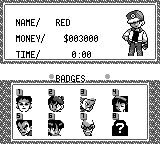
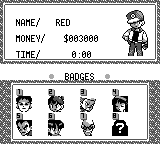
fix(ui): center badge heading and pad Oak name choices

Changed region(s): [[0.3438, 0.5, 0.5938, 0.5833]]

diff --git a/crates/pokered-app/src/render/trainer_card.rs b/crates/pokered-app/src/render/trainer_card.rs
@@ -76,14 +76,19 @@ pub fn draw_trainer_card(
         draw_text(ui_label(label, is_zh), 16, y, fg, fb);
         draw_text(&value, x, y, fg, fb);
     }
-    // Fusion Pixel extends below the original eight-pixel heading row.
-    // Clear its full ink area so the frame texture cannot show through.
+    // Center the project font between the circles. CJK ink extends two
+    // pixels below the ten-pixel Latin row; both must end before y=80.
     let heading = ui_label("BADGES", is_zh);
     let width = pokered_renderer::embedded_font::measure_text(heading);
-    for y in 72..82 {
-        for x in 56..56 + width { fb.set_pixel(x, y, Rgba::WHITE); }
+    let heading_x = (fb.width().saturating_sub(width)) / 2;
+    let heading_height = if is_zh { 12 } else { 10 };
+    let heading_y = 80 - heading_height;
+    for y in heading_y..80 {
+        for x in heading_x..heading_x + width {
+            fb.set_pixel(x, y, Rgba::WHITE);
+        }
     }
-    draw_text(heading, 56, 72, fg, fb);
+    draw_text(heading, heading_x, heading_y, fg, fb);
 
     // Badge rows: number tile beside the 2×2 face (unowned) or badge (owned)
     // graphic (GymLeaderFaceAndBadgeTileGraphics layout: face i at
@@ -135,6 +140,50 @@ fn blit_tile(
             let c = rgba_row[col as usize];
             if c != Rgba::TRANSPARENT && x + col < fb.width() && y + row < fb.height() {
                 fb.set_pixel(x + col, y + row, c);
+            }
+        }
+    }
+}
+
+#[cfg(test)]
+mod tests {
+    use super::*;
+    use dotzuki_engine::render_config::RenderConfig;
+    use pokered_renderer::resource::AssetRoot;
+
+    #[test]
+    fn badge_heading_is_centered_and_leaves_the_top_frame_intact() {
+        let mut resources = Some(ResourceManager::new(AssetRoot::auto_detect().unwrap()));
+        let tiles = resources
+            .as_mut()
+            .unwrap()
+            .load_asset(AssetCategory::TrainerCard, "trainer_info.png")
+            .unwrap()
+            .tileset
+            .clone();
+        let mut border = FrameBuffer::new(RenderConfig::new(160, 144), Rgba::WHITE);
+        super::super::draw_trainer_info_box(&mut border, &tiles, 1, 10, 16, 6);
+        for lang in [Lang::En, Lang::Zh] {
+            let mut fb = FrameBuffer::new(RenderConfig::new(160, 144), Rgba::WHITE);
+            draw_trainer_card("RED", 3000, 0, 0, 0, &mut resources, &mut fb, lang);
+            let ink: Vec<_> = (64..80)
+                .flat_map(|y| (56..104).map(move |x| (x, y)))
+                .filter(|&(x, y)| fb.get_pixel(x, y) == Some(Rgba::BLACK))
+                .collect();
+            let left = ink.iter().map(|p| p.0).min().expect("heading ink");
+            let right = ink.iter().map(|p| p.0).max().unwrap();
+            assert!(
+                (left as i32 + right as i32 - 159).abs() <= 4,
+                "{lang:?} heading must be centered between the circles"
+            );
+            for y in 80..88 {
+                for x in 56..104 {
+                    assert_eq!(
+                        fb.get_pixel(x, y),
+                        border.get_pixel(x, y),
+                        "{lang:?} heading must not erase or overlap the frame at ({x},{y})"
+                    );
+                }
             }
         }
     }

diff --git a/crates/pokered-ui/tests/zh_description_geometry.rs b/crates/pokered-ui/tests/zh_description_geometry.rs
@@ -7,10 +7,11 @@ use pokered_ui::{menus, Painter, Rgba, TilePos, TileRect, Ui};
 #[derive(Default)]
 struct Recorder {
     text: Vec<(TilePos, String)>,
+    boxes: Vec<TileRect>,
 }
 impl Painter for Recorder {
     fn clear(&mut self, _: Rgba) {}
-    fn draw_text_box(&mut self, _: TileRect, _: Rgba) {}
+    fn draw_text_box(&mut self, rect: TileRect, _: Rgba) { self.boxes.push(rect); }
     fn draw_text(&mut self, pos: TilePos, text: &str, _: Rgba) {
         self.text.push((pos, text.into()));
     }
@@ -95,5 +96,20 @@ fn every_chinese_machine_prompt_has_nonoverlapping_readable_rows() {
             assert!(pos.tx * 8 + pokered_data::dialogue_layout::measure_text(text) <= 152);
             assert!(pos.ty * 8 + 12 <= 136);
         }
+    }
+}
+
+#[test]
+fn new_name_leaves_clearance_above_the_bottom_frame() {
+    use pokered_core::oak_speech::{DEFAULT_PLAYER_NAMES, DEFAULT_RIVAL_NAMES};
+    for names in [&DEFAULT_PLAYER_NAMES, &DEFAULT_RIVAL_NAMES] {
+        let mut p = Recorder::default();
+        menus::oak_speech::draw_name_choice(names, 3, "你的名字？",
+            &OAK_SPEECH_NAME_CHOICE_LAYOUT, &mut Ui::new(&mut p));
+        let (pos, _) = p.text.iter().find(|(_, text)| text == "NEW NAME").unwrap();
+        let rect = p.boxes[0];
+        let border_y = (rect.ty + rect.th - 1) * 8;
+        assert!(pos.ty * 8 + pokered_renderer::embedded_font::GLYPH_SIZE + 2 <= border_y,
+            "NEW NAME needs a full font row and padding above the bottom border");
     }
 }

diff --git a/docs/screenshots/tui-shared-runtime/README.md b/docs/screenshots/tui-shared-runtime/README.md
@@ -2,9 +2,11 @@
 
 基线：`deed3e23c1f360c499a1c3fe56f1482e66235e0b`。在 master 上先截旧 TUI，再在本 PR 上截相同屏幕和帧。记录的是终端半块字符转换前的实际 framebuffer。
 
-共 44 组；32 组逐像素一致。Fusion Pixel 字体及终端显示参数保持原方案。
+共 44 组；29 组逐像素一致。Fusion Pixel 字体及终端显示参数保持原方案。
 
 变化来自采用现有共享渲染：战斗菜单和城镇地图现在使用中文；图鉴采用共享边框、分隔线及文本布局。FLY 也采用共享运行时已有的八帧城镇地图离场时序。
+
+根据截图审阅追加两处共享布局修复：徽章标题按字体宽度居中并上移，完整保留徽章框顶边；命名列表框增加一个 tile 的高度，给 NEW NAME 留出底部空白。这两处改变同时适用于图形和终端前端。
 
 ## 复现
 
@@ -21,56 +23,57 @@ PR_SCREENSHOTS=/tmp/tui-frames cargo test -p pokered-tui capture_tui_ -- --ignor
 ## 验证结果
 
 - `cargo test -p pokered-tui`：6 项通过（4 项显式截图测试默认忽略）。
-- `cargo test -p pokered-app --lib`：150 项通过，1 项显式截图测试忽略。
+- `cargo test -p pokered-app --lib`：151 项通过，1 项显式截图测试忽略。
+- `cargo test -p pokered-ui`：103 项通过，含 NEW NAME 留白回归。
 - 关闭 desktop、仅启用资源和原生音频时，迁移的 16 项游戏逻辑测试全部通过。
 - TUI 默认配置及 embedded-scripts/embedded-map-data 配置均构建通过。依赖树没有 winit、wgpu 或 pixels。
 - 真实 PTY：输出 framebuffer 半块字符；Esc 正常退出、返回码为 0，并恢复终端。
 - 场景测试 10/11 通过，包括战斗、捕获、黑屏复活、存档跨进程 CONTINUE、菜单和选项。s10 与两次 m06 流程回归均在 m03 下楼时返回二楼而失败。
-- 独立 master checkout 的新编译二进制复现同一 m03 和 s10 失败：`NavError: warped out of RedsHouse1F -> RedsHouse2F`。该基线问题未计作本 PR 的通过项，本 PR 未修改导航、楼梯或共享运行时生产代码。
+- 独立 master checkout 的新编译二进制复现同一 m03 和 s10 失败：`NavError: warped out of RedsHouse1F -> RedsHouse2F`。该基线问题未计作本 PR 的通过项，本 PR 未修改导航、楼梯或导航生产代码。
 
 | 场景 | 不同像素 | 前 | 后 |
 |---|---:|---|---|
-| tui-bag-en | 0 | ![前](https://raw.githubusercontent.com/liuyanghejerry/open-pokered/refactor/tui-shared-runtime/docs/screenshots/tui-shared-runtime/tui-bag-en-before.png) | ![后](https://raw.githubusercontent.com/liuyanghejerry/open-pokered/refactor/tui-shared-runtime/docs/screenshots/tui-shared-runtime/tui-bag-en-after.png) |
-| tui-bag-zh | 0 | ![前](https://raw.githubusercontent.com/liuyanghejerry/open-pokered/refactor/tui-shared-runtime/docs/screenshots/tui-shared-runtime/tui-bag-zh-before.png) | ![后](https://raw.githubusercontent.com/liuyanghejerry/open-pokered/refactor/tui-shared-runtime/docs/screenshots/tui-shared-runtime/tui-bag-zh-after.png) |
-| tui-battle-en | 310 | ![前](https://raw.githubusercontent.com/liuyanghejerry/open-pokered/refactor/tui-shared-runtime/docs/screenshots/tui-shared-runtime/tui-battle-en-before.png) | ![后](https://raw.githubusercontent.com/liuyanghejerry/open-pokered/refactor/tui-shared-runtime/docs/screenshots/tui-shared-runtime/tui-battle-en-after.png) |
-| tui-battle-zh | 371 | ![前](https://raw.githubusercontent.com/liuyanghejerry/open-pokered/refactor/tui-shared-runtime/docs/screenshots/tui-shared-runtime/tui-battle-zh-before.png) | ![后](https://raw.githubusercontent.com/liuyanghejerry/open-pokered/refactor/tui-shared-runtime/docs/screenshots/tui-shared-runtime/tui-battle-zh-after.png) |
-| tui-copyright-en | 0 | ![前](https://raw.githubusercontent.com/liuyanghejerry/open-pokered/refactor/tui-shared-runtime/docs/screenshots/tui-shared-runtime/tui-copyright-en-before.png) | ![后](https://raw.githubusercontent.com/liuyanghejerry/open-pokered/refactor/tui-shared-runtime/docs/screenshots/tui-shared-runtime/tui-copyright-en-after.png) |
-| tui-copyright-zh | 0 | ![前](https://raw.githubusercontent.com/liuyanghejerry/open-pokered/refactor/tui-shared-runtime/docs/screenshots/tui-shared-runtime/tui-copyright-zh-before.png) | ![后](https://raw.githubusercontent.com/liuyanghejerry/open-pokered/refactor/tui-shared-runtime/docs/screenshots/tui-shared-runtime/tui-copyright-zh-after.png) |
-| tui-dex-caterpie-page-0 | 1936 | ![前](https://raw.githubusercontent.com/liuyanghejerry/open-pokered/refactor/tui-shared-runtime/docs/screenshots/tui-shared-runtime/tui-dex-caterpie-page-0-before.png) | ![后](https://raw.githubusercontent.com/liuyanghejerry/open-pokered/refactor/tui-shared-runtime/docs/screenshots/tui-shared-runtime/tui-dex-caterpie-page-0-after.png) |
-| tui-fly-departure-0-en | 15283 | ![前](https://raw.githubusercontent.com/liuyanghejerry/open-pokered/refactor/tui-shared-runtime/docs/screenshots/tui-shared-runtime/tui-fly-departure-0-en-before.png) | ![后](https://raw.githubusercontent.com/liuyanghejerry/open-pokered/refactor/tui-shared-runtime/docs/screenshots/tui-shared-runtime/tui-fly-departure-0-en-after.png) |
-| tui-fly-departure-0-zh | 15245 | ![前](https://raw.githubusercontent.com/liuyanghejerry/open-pokered/refactor/tui-shared-runtime/docs/screenshots/tui-shared-runtime/tui-fly-departure-0-zh-before.png) | ![后](https://raw.githubusercontent.com/liuyanghejerry/open-pokered/refactor/tui-shared-runtime/docs/screenshots/tui-shared-runtime/tui-fly-departure-0-zh-after.png) |
-| tui-fly-departure-7-en | 15283 | ![前](https://raw.githubusercontent.com/liuyanghejerry/open-pokered/refactor/tui-shared-runtime/docs/screenshots/tui-shared-runtime/tui-fly-departure-7-en-before.png) | ![后](https://raw.githubusercontent.com/liuyanghejerry/open-pokered/refactor/tui-shared-runtime/docs/screenshots/tui-shared-runtime/tui-fly-departure-7-en-after.png) |
-| tui-fly-departure-7-zh | 15245 | ![前](https://raw.githubusercontent.com/liuyanghejerry/open-pokered/refactor/tui-shared-runtime/docs/screenshots/tui-shared-runtime/tui-fly-departure-7-zh-before.png) | ![后](https://raw.githubusercontent.com/liuyanghejerry/open-pokered/refactor/tui-shared-runtime/docs/screenshots/tui-shared-runtime/tui-fly-departure-7-zh-after.png) |
-| tui-fly-departure-8-en | 6502 | ![前](https://raw.githubusercontent.com/liuyanghejerry/open-pokered/refactor/tui-shared-runtime/docs/screenshots/tui-shared-runtime/tui-fly-departure-8-en-before.png) | ![后](https://raw.githubusercontent.com/liuyanghejerry/open-pokered/refactor/tui-shared-runtime/docs/screenshots/tui-shared-runtime/tui-fly-departure-8-en-after.png) |
-| tui-fly-departure-8-zh | 6502 | ![前](https://raw.githubusercontent.com/liuyanghejerry/open-pokered/refactor/tui-shared-runtime/docs/screenshots/tui-shared-runtime/tui-fly-departure-8-zh-before.png) | ![后](https://raw.githubusercontent.com/liuyanghejerry/open-pokered/refactor/tui-shared-runtime/docs/screenshots/tui-shared-runtime/tui-fly-departure-8-zh-after.png) |
-| tui-hof-rating-50 | 0 | ![前](https://raw.githubusercontent.com/liuyanghejerry/open-pokered/refactor/tui-shared-runtime/docs/screenshots/tui-shared-runtime/tui-hof-rating-50-before.png) | ![后](https://raw.githubusercontent.com/liuyanghejerry/open-pokered/refactor/tui-shared-runtime/docs/screenshots/tui-shared-runtime/tui-hof-rating-50-after.png) |
-| tui-hof-stats-max | 0 | ![前](https://raw.githubusercontent.com/liuyanghejerry/open-pokered/refactor/tui-shared-runtime/docs/screenshots/tui-shared-runtime/tui-hof-stats-max-before.png) | ![后](https://raw.githubusercontent.com/liuyanghejerry/open-pokered/refactor/tui-shared-runtime/docs/screenshots/tui-shared-runtime/tui-hof-stats-max-after.png) |
-| tui-hof-stats-zero | 0 | ![前](https://raw.githubusercontent.com/liuyanghejerry/open-pokered/refactor/tui-shared-runtime/docs/screenshots/tui-shared-runtime/tui-hof-stats-zero-before.png) | ![后](https://raw.githubusercontent.com/liuyanghejerry/open-pokered/refactor/tui-shared-runtime/docs/screenshots/tui-shared-runtime/tui-hof-stats-zero-after.png) |
-| tui-intro-en | 0 | ![前](https://raw.githubusercontent.com/liuyanghejerry/open-pokered/refactor/tui-shared-runtime/docs/screenshots/tui-shared-runtime/tui-intro-en-before.png) | ![后](https://raw.githubusercontent.com/liuyanghejerry/open-pokered/refactor/tui-shared-runtime/docs/screenshots/tui-shared-runtime/tui-intro-en-after.png) |
-| tui-intro-zh | 0 | ![前](https://raw.githubusercontent.com/liuyanghejerry/open-pokered/refactor/tui-shared-runtime/docs/screenshots/tui-shared-runtime/tui-intro-zh-before.png) | ![后](https://raw.githubusercontent.com/liuyanghejerry/open-pokered/refactor/tui-shared-runtime/docs/screenshots/tui-shared-runtime/tui-intro-zh-after.png) |
-| tui-language-en | 0 | ![前](https://raw.githubusercontent.com/liuyanghejerry/open-pokered/refactor/tui-shared-runtime/docs/screenshots/tui-shared-runtime/tui-language-en-before.png) | ![后](https://raw.githubusercontent.com/liuyanghejerry/open-pokered/refactor/tui-shared-runtime/docs/screenshots/tui-shared-runtime/tui-language-en-after.png) |
-| tui-language-zh | 0 | ![前](https://raw.githubusercontent.com/liuyanghejerry/open-pokered/refactor/tui-shared-runtime/docs/screenshots/tui-shared-runtime/tui-language-zh-before.png) | ![后](https://raw.githubusercontent.com/liuyanghejerry/open-pokered/refactor/tui-shared-runtime/docs/screenshots/tui-shared-runtime/tui-language-zh-after.png) |
-| tui-main-menu-en | 0 | ![前](https://raw.githubusercontent.com/liuyanghejerry/open-pokered/refactor/tui-shared-runtime/docs/screenshots/tui-shared-runtime/tui-main-menu-en-before.png) | ![后](https://raw.githubusercontent.com/liuyanghejerry/open-pokered/refactor/tui-shared-runtime/docs/screenshots/tui-shared-runtime/tui-main-menu-en-after.png) |
-| tui-main-menu-zh | 0 | ![前](https://raw.githubusercontent.com/liuyanghejerry/open-pokered/refactor/tui-shared-runtime/docs/screenshots/tui-shared-runtime/tui-main-menu-zh-before.png) | ![后](https://raw.githubusercontent.com/liuyanghejerry/open-pokered/refactor/tui-shared-runtime/docs/screenshots/tui-shared-runtime/tui-main-menu-zh-after.png) |
-| tui-oak-input-frame-43 | 0 | ![前](https://raw.githubusercontent.com/liuyanghejerry/open-pokered/refactor/tui-shared-runtime/docs/screenshots/tui-shared-runtime/tui-oak-input-frame-43-before.png) | ![后](https://raw.githubusercontent.com/liuyanghejerry/open-pokered/refactor/tui-shared-runtime/docs/screenshots/tui-shared-runtime/tui-oak-input-frame-43-after.png) |
-| tui-oak-name-choice | 0 | ![前](https://raw.githubusercontent.com/liuyanghejerry/open-pokered/refactor/tui-shared-runtime/docs/screenshots/tui-shared-runtime/tui-oak-name-choice-before.png) | ![后](https://raw.githubusercontent.com/liuyanghejerry/open-pokered/refactor/tui-shared-runtime/docs/screenshots/tui-shared-runtime/tui-oak-name-choice-after.png) |
-| tui-options-en | 0 | ![前](https://raw.githubusercontent.com/liuyanghejerry/open-pokered/refactor/tui-shared-runtime/docs/screenshots/tui-shared-runtime/tui-options-en-before.png) | ![后](https://raw.githubusercontent.com/liuyanghejerry/open-pokered/refactor/tui-shared-runtime/docs/screenshots/tui-shared-runtime/tui-options-en-after.png) |
-| tui-options-zh | 0 | ![前](https://raw.githubusercontent.com/liuyanghejerry/open-pokered/refactor/tui-shared-runtime/docs/screenshots/tui-shared-runtime/tui-options-zh-before.png) | ![后](https://raw.githubusercontent.com/liuyanghejerry/open-pokered/refactor/tui-shared-runtime/docs/screenshots/tui-shared-runtime/tui-options-zh-after.png) |
-| tui-overworld-en | 0 | ![前](https://raw.githubusercontent.com/liuyanghejerry/open-pokered/refactor/tui-shared-runtime/docs/screenshots/tui-shared-runtime/tui-overworld-en-before.png) | ![后](https://raw.githubusercontent.com/liuyanghejerry/open-pokered/refactor/tui-shared-runtime/docs/screenshots/tui-shared-runtime/tui-overworld-en-after.png) |
-| tui-overworld-zh | 0 | ![前](https://raw.githubusercontent.com/liuyanghejerry/open-pokered/refactor/tui-shared-runtime/docs/screenshots/tui-shared-runtime/tui-overworld-zh-before.png) | ![后](https://raw.githubusercontent.com/liuyanghejerry/open-pokered/refactor/tui-shared-runtime/docs/screenshots/tui-shared-runtime/tui-overworld-zh-after.png) |
-| tui-party-en | 0 | ![前](https://raw.githubusercontent.com/liuyanghejerry/open-pokered/refactor/tui-shared-runtime/docs/screenshots/tui-shared-runtime/tui-party-en-before.png) | ![后](https://raw.githubusercontent.com/liuyanghejerry/open-pokered/refactor/tui-shared-runtime/docs/screenshots/tui-shared-runtime/tui-party-en-after.png) |
-| tui-party-zh | 0 | ![前](https://raw.githubusercontent.com/liuyanghejerry/open-pokered/refactor/tui-shared-runtime/docs/screenshots/tui-shared-runtime/tui-party-zh-before.png) | ![后](https://raw.githubusercontent.com/liuyanghejerry/open-pokered/refactor/tui-shared-runtime/docs/screenshots/tui-shared-runtime/tui-party-zh-after.png) |
-| tui-pc-oak-rating-50 | 0 | ![前](https://raw.githubusercontent.com/liuyanghejerry/open-pokered/refactor/tui-shared-runtime/docs/screenshots/tui-shared-runtime/tui-pc-oak-rating-50-before.png) | ![后](https://raw.githubusercontent.com/liuyanghejerry/open-pokered/refactor/tui-shared-runtime/docs/screenshots/tui-shared-runtime/tui-pc-oak-rating-50-after.png) |
-| tui-save-en | 0 | ![前](https://raw.githubusercontent.com/liuyanghejerry/open-pokered/refactor/tui-shared-runtime/docs/screenshots/tui-shared-runtime/tui-save-en-before.png) | ![后](https://raw.githubusercontent.com/liuyanghejerry/open-pokered/refactor/tui-shared-runtime/docs/screenshots/tui-shared-runtime/tui-save-en-after.png) |
-| tui-save-zh | 0 | ![前](https://raw.githubusercontent.com/liuyanghejerry/open-pokered/refactor/tui-shared-runtime/docs/screenshots/tui-shared-runtime/tui-save-zh-before.png) | ![后](https://raw.githubusercontent.com/liuyanghejerry/open-pokered/refactor/tui-shared-runtime/docs/screenshots/tui-shared-runtime/tui-save-zh-after.png) |
-| tui-splash-en | 0 | ![前](https://raw.githubusercontent.com/liuyanghejerry/open-pokered/refactor/tui-shared-runtime/docs/screenshots/tui-shared-runtime/tui-splash-en-before.png) | ![后](https://raw.githubusercontent.com/liuyanghejerry/open-pokered/refactor/tui-shared-runtime/docs/screenshots/tui-shared-runtime/tui-splash-en-after.png) |
-| tui-splash-zh | 0 | ![前](https://raw.githubusercontent.com/liuyanghejerry/open-pokered/refactor/tui-shared-runtime/docs/screenshots/tui-shared-runtime/tui-splash-zh-before.png) | ![后](https://raw.githubusercontent.com/liuyanghejerry/open-pokered/refactor/tui-shared-runtime/docs/screenshots/tui-shared-runtime/tui-splash-zh-after.png) |
-| tui-start-menu-en | 0 | ![前](https://raw.githubusercontent.com/liuyanghejerry/open-pokered/refactor/tui-shared-runtime/docs/screenshots/tui-shared-runtime/tui-start-menu-en-before.png) | ![后](https://raw.githubusercontent.com/liuyanghejerry/open-pokered/refactor/tui-shared-runtime/docs/screenshots/tui-shared-runtime/tui-start-menu-en-after.png) |
-| tui-start-menu-zh | 0 | ![前](https://raw.githubusercontent.com/liuyanghejerry/open-pokered/refactor/tui-shared-runtime/docs/screenshots/tui-shared-runtime/tui-start-menu-zh-before.png) | ![后](https://raw.githubusercontent.com/liuyanghejerry/open-pokered/refactor/tui-shared-runtime/docs/screenshots/tui-shared-runtime/tui-start-menu-zh-after.png) |
-| tui-starter-dex-overlay | 1952 | ![前](https://raw.githubusercontent.com/liuyanghejerry/open-pokered/refactor/tui-shared-runtime/docs/screenshots/tui-shared-runtime/tui-starter-dex-overlay-before.png) | ![后](https://raw.githubusercontent.com/liuyanghejerry/open-pokered/refactor/tui-shared-runtime/docs/screenshots/tui-shared-runtime/tui-starter-dex-overlay-after.png) |
-| tui-title-en | 0 | ![前](https://raw.githubusercontent.com/liuyanghejerry/open-pokered/refactor/tui-shared-runtime/docs/screenshots/tui-shared-runtime/tui-title-en-before.png) | ![后](https://raw.githubusercontent.com/liuyanghejerry/open-pokered/refactor/tui-shared-runtime/docs/screenshots/tui-shared-runtime/tui-title-en-after.png) |
-| tui-title-zh | 0 | ![前](https://raw.githubusercontent.com/liuyanghejerry/open-pokered/refactor/tui-shared-runtime/docs/screenshots/tui-shared-runtime/tui-title-zh-before.png) | ![后](https://raw.githubusercontent.com/liuyanghejerry/open-pokered/refactor/tui-shared-runtime/docs/screenshots/tui-shared-runtime/tui-title-zh-after.png) |
-| tui-town-map-en | 192 | ![前](https://raw.githubusercontent.com/liuyanghejerry/open-pokered/refactor/tui-shared-runtime/docs/screenshots/tui-shared-runtime/tui-town-map-en-before.png) | ![后](https://raw.githubusercontent.com/liuyanghejerry/open-pokered/refactor/tui-shared-runtime/docs/screenshots/tui-shared-runtime/tui-town-map-en-after.png) |
-| tui-town-map-zh | 374 | ![前](https://raw.githubusercontent.com/liuyanghejerry/open-pokered/refactor/tui-shared-runtime/docs/screenshots/tui-shared-runtime/tui-town-map-zh-before.png) | ![后](https://raw.githubusercontent.com/liuyanghejerry/open-pokered/refactor/tui-shared-runtime/docs/screenshots/tui-shared-runtime/tui-town-map-zh-after.png) |
-| tui-trainer-card-en | 0 | ![前](https://raw.githubusercontent.com/liuyanghejerry/open-pokered/refactor/tui-shared-runtime/docs/screenshots/tui-shared-runtime/tui-trainer-card-en-before.png) | ![后](https://raw.githubusercontent.com/liuyanghejerry/open-pokered/refactor/tui-shared-runtime/docs/screenshots/tui-shared-runtime/tui-trainer-card-en-after.png) |
-| tui-trainer-card-zh | 0 | ![前](https://raw.githubusercontent.com/liuyanghejerry/open-pokered/refactor/tui-shared-runtime/docs/screenshots/tui-shared-runtime/tui-trainer-card-zh-before.png) | ![后](https://raw.githubusercontent.com/liuyanghejerry/open-pokered/refactor/tui-shared-runtime/docs/screenshots/tui-shared-runtime/tui-trainer-card-zh-after.png) |
+| tui-bag-en | 0 | ![前](https://raw.githubusercontent.com/liuyanghejerry/open-pokered/refactor/tui-shared-runtime/docs/screenshots/tui-shared-runtime/tui-bag-en-before.png?layout-review=2) | ![后](https://raw.githubusercontent.com/liuyanghejerry/open-pokered/refactor/tui-shared-runtime/docs/screenshots/tui-shared-runtime/tui-bag-en-after.png?layout-review=2) |
+| tui-bag-zh | 0 | ![前](https://raw.githubusercontent.com/liuyanghejerry/open-pokered/refactor/tui-shared-runtime/docs/screenshots/tui-shared-runtime/tui-bag-zh-before.png?layout-review=2) | ![后](https://raw.githubusercontent.com/liuyanghejerry/open-pokered/refactor/tui-shared-runtime/docs/screenshots/tui-shared-runtime/tui-bag-zh-after.png?layout-review=2) |
+| tui-battle-en | 310 | ![前](https://raw.githubusercontent.com/liuyanghejerry/open-pokered/refactor/tui-shared-runtime/docs/screenshots/tui-shared-runtime/tui-battle-en-before.png?layout-review=2) | ![后](https://raw.githubusercontent.com/liuyanghejerry/open-pokered/refactor/tui-shared-runtime/docs/screenshots/tui-shared-runtime/tui-battle-en-after.png?layout-review=2) |
+| tui-battle-zh | 371 | ![前](https://raw.githubusercontent.com/liuyanghejerry/open-pokered/refactor/tui-shared-runtime/docs/screenshots/tui-shared-runtime/tui-battle-zh-before.png?layout-review=2) | ![后](https://raw.githubusercontent.com/liuyanghejerry/open-pokered/refactor/tui-shared-runtime/docs/screenshots/tui-shared-runtime/tui-battle-zh-after.png?layout-review=2) |
+| tui-copyright-en | 0 | ![前](https://raw.githubusercontent.com/liuyanghejerry/open-pokered/refactor/tui-shared-runtime/docs/screenshots/tui-shared-runtime/tui-copyright-en-before.png?layout-review=2) | ![后](https://raw.githubusercontent.com/liuyanghejerry/open-pokered/refactor/tui-shared-runtime/docs/screenshots/tui-shared-runtime/tui-copyright-en-after.png?layout-review=2) |
+| tui-copyright-zh | 0 | ![前](https://raw.githubusercontent.com/liuyanghejerry/open-pokered/refactor/tui-shared-runtime/docs/screenshots/tui-shared-runtime/tui-copyright-zh-before.png?layout-review=2) | ![后](https://raw.githubusercontent.com/liuyanghejerry/open-pokered/refactor/tui-shared-runtime/docs/screenshots/tui-shared-runtime/tui-copyright-zh-after.png?layout-review=2) |
+| tui-dex-caterpie-page-0 | 1936 | ![前](https://raw.githubusercontent.com/liuyanghejerry/open-pokered/refactor/tui-shared-runtime/docs/screenshots/tui-shared-runtime/tui-dex-caterpie-page-0-before.png?layout-review=2) | ![后](https://raw.githubusercontent.com/liuyanghejerry/open-pokered/refactor/tui-shared-runtime/docs/screenshots/tui-shared-runtime/tui-dex-caterpie-page-0-after.png?layout-review=2) |
+| tui-fly-departure-0-en | 15283 | ![前](https://raw.githubusercontent.com/liuyanghejerry/open-pokered/refactor/tui-shared-runtime/docs/screenshots/tui-shared-runtime/tui-fly-departure-0-en-before.png?layout-review=2) | ![后](https://raw.githubusercontent.com/liuyanghejerry/open-pokered/refactor/tui-shared-runtime/docs/screenshots/tui-shared-runtime/tui-fly-departure-0-en-after.png?layout-review=2) |
+| tui-fly-departure-0-zh | 15245 | ![前](https://raw.githubusercontent.com/liuyanghejerry/open-pokered/refactor/tui-shared-runtime/docs/screenshots/tui-shared-runtime/tui-fly-departure-0-zh-before.png?layout-review=2) | ![后](https://raw.githubusercontent.com/liuyanghejerry/open-pokered/refactor/tui-shared-runtime/docs/screenshots/tui-shared-runtime/tui-fly-departure-0-zh-after.png?layout-review=2) |
+| tui-fly-departure-7-en | 15283 | ![前](https://raw.githubusercontent.com/liuyanghejerry/open-pokered/refactor/tui-shared-runtime/docs/screenshots/tui-shared-runtime/tui-fly-departure-7-en-before.png?layout-review=2) | ![后](https://raw.githubusercontent.com/liuyanghejerry/open-pokered/refactor/tui-shared-runtime/docs/screenshots/tui-shared-runtime/tui-fly-departure-7-en-after.png?layout-review=2) |
+| tui-fly-departure-7-zh | 15245 | ![前](https://raw.githubusercontent.com/liuyanghejerry/open-pokered/refactor/tui-shared-runtime/docs/screenshots/tui-shared-runtime/tui-fly-departure-7-zh-before.png?layout-review=2) | ![后](https://raw.githubusercontent.com/liuyanghejerry/open-pokered/refactor/tui-shared-runtime/docs/screenshots/tui-shared-runtime/tui-fly-departure-7-zh-after.png?layout-review=2) |
+| tui-fly-departure-8-en | 6502 | ![前](https://raw.githubusercontent.com/liuyanghejerry/open-pokered/refactor/tui-shared-runtime/docs/screenshots/tui-shared-runtime/tui-fly-departure-8-en-before.png?layout-review=2) | ![后](https://raw.githubusercontent.com/liuyanghejerry/open-pokered/refactor/tui-shared-runtime/docs/screenshots/tui-shared-runtime/tui-fly-departure-8-en-after.png?layout-review=2) |
+| tui-fly-departure-8-zh | 6502 | ![前](https://raw.githubusercontent.com/liuyanghejerry/open-pokered/refactor/tui-shared-runtime/docs/screenshots/tui-shared-runtime/tui-fly-departure-8-zh-before.png?layout-review=2) | ![后](https://raw.githubusercontent.com/liuyanghejerry/open-pokered/refactor/tui-shared-runtime/docs/screenshots/tui-shared-runtime/tui-fly-departure-8-zh-after.png?layout-review=2) |
+| tui-hof-rating-50 | 0 | ![前](https://raw.githubusercontent.com/liuyanghejerry/open-pokered/refactor/tui-shared-runtime/docs/screenshots/tui-shared-runtime/tui-hof-rating-50-before.png?layout-review=2) | ![后](https://raw.githubusercontent.com/liuyanghejerry/open-pokered/refactor/tui-shared-runtime/docs/screenshots/tui-shared-runtime/tui-hof-rating-50-after.png?layout-review=2) |
+| tui-hof-stats-max | 0 | ![前](https://raw.githubusercontent.com/liuyanghejerry/open-pokered/refactor/tui-shared-runtime/docs/screenshots/tui-shared-runtime/tui-hof-stats-max-before.png?layout-review=2) | ![后](https://raw.githubusercontent.com/liuyanghejerry/open-pokered/refactor/tui-shared-runtime/docs/screenshots/tui-shared-runtime/tui-hof-stats-max-after.png?layout-review=2) |
+| tui-hof-stats-zero | 0 | ![前](https://raw.githubusercontent.com/liuyanghejerry/open-pokered/refactor/tui-shared-runtime/docs/screenshots/tui-shared-runtime/tui-hof-stats-zero-before.png?layout-review=2) | ![后](https://raw.githubusercontent.com/liuyanghejerry/open-pokered/refactor/tui-shared-runtime/docs/screenshots/tui-shared-runtime/tui-hof-stats-zero-after.png?layout-review=2) |
+| tui-intro-en | 0 | ![前](https://raw.githubusercontent.com/liuyanghejerry/open-pokered/refactor/tui-shared-runtime/docs/screenshots/tui-shared-runtime/tui-intro-en-before.png?layout-review=2) | ![后](https://raw.githubusercontent.com/liuyanghejerry/open-pokered/refactor/tui-shared-runtime/docs/screenshots/tui-shared-runtime/tui-intro-en-after.png?layout-review=2) |
+| tui-intro-zh | 0 | ![前](https://raw.githubusercontent.com/liuyanghejerry/open-pokered/refactor/tui-shared-runtime/docs/screenshots/tui-shared-runtime/tui-intro-zh-before.png?layout-review=2) | ![后](https://raw.githubusercontent.com/liuyanghejerry/open-pokered/refactor/tui-shared-runtime/docs/screenshots/tui-shared-runtime/tui-intro-zh-after.png?layout-review=2) |
+| tui-language-en | 0 | ![前](https://raw.githubusercontent.com/liuyanghejerry/open-pokered/refactor/tui-shared-runtime/docs/screenshots/tui-shared-runtime/tui-language-en-before.png?layout-review=2) | ![后](https://raw.githubusercontent.com/liuyanghejerry/open-pokered/refactor/tui-shared-runtime/docs/screenshots/tui-shared-runtime/tui-language-en-after.png?layout-review=2) |
+| tui-language-zh | 0 | ![前](https://raw.githubusercontent.com/liuyanghejerry/open-pokered/refactor/tui-shared-runtime/docs/screenshots/tui-shared-runtime/tui-language-zh-before.png?layout-review=2) | ![后](https://raw.githubusercontent.com/liuyanghejerry/open-pokered/refactor/tui-shared-runtime/docs/screenshots/tui-shared-runtime/tui-language-zh-after.png?layout-review=2) |
+| tui-main-menu-en | 0 | ![前](https://raw.githubusercontent.com/liuyanghejerry/open-pokered/refactor/tui-shared-runtime/docs/screenshots/tui-shared-runtime/tui-main-menu-en-before.png?layout-review=2) | ![后](https://raw.githubusercontent.com/liuyanghejerry/open-pokered/refactor/tui-shared-runtime/docs/screenshots/tui-shared-runtime/tui-main-menu-en-after.png?layout-review=2) |
+| tui-main-menu-zh | 0 | ![前](https://raw.githubusercontent.com/liuyanghejerry/open-pokered/refactor/tui-shared-runtime/docs/screenshots/tui-shared-runtime/tui-main-menu-zh-before.png?layout-review=2) | ![后](https://raw.githubusercontent.com/liuyanghejerry/open-pokered/refactor/tui-shared-runtime/docs/screenshots/tui-shared-runtime/tui-main-menu-zh-after.png?layout-review=2) |
+| tui-oak-input-frame-43 | 0 | ![前](https://raw.githubusercontent.com/liuyanghejerry/open-pokered/refactor/tui-shared-runtime/docs/screenshots/tui-shared-runtime/tui-oak-input-frame-43-before.png?layout-review=2) | ![后](https://raw.githubusercontent.com/liuyanghejerry/open-pokered/refactor/tui-shared-runtime/docs/screenshots/tui-shared-runtime/tui-oak-input-frame-43-after.png?layout-review=2) |
+| tui-oak-name-choice | 520 | ![前](https://raw.githubusercontent.com/liuyanghejerry/open-pokered/refactor/tui-shared-runtime/docs/screenshots/tui-shared-runtime/tui-oak-name-choice-before.png?layout-review=2) | ![后](https://raw.githubusercontent.com/liuyanghejerry/open-pokered/refactor/tui-shared-runtime/docs/screenshots/tui-shared-runtime/tui-oak-name-choice-after.png?layout-review=2) |
+| tui-options-en | 0 | ![前](https://raw.githubusercontent.com/liuyanghejerry/open-pokered/refactor/tui-shared-runtime/docs/screenshots/tui-shared-runtime/tui-options-en-before.png?layout-review=2) | ![后](https://raw.githubusercontent.com/liuyanghejerry/open-pokered/refactor/tui-shared-runtime/docs/screenshots/tui-shared-runtime/tui-options-en-after.png?layout-review=2) |
+| tui-options-zh | 0 | ![前](https://raw.githubusercontent.com/liuyanghejerry/open-pokered/refactor/tui-shared-runtime/docs/screenshots/tui-shared-runtime/tui-options-zh-before.png?layout-review=2) | ![后](https://raw.githubusercontent.com/liuyanghejerry/open-pokered/refactor/tui-shared-runtime/docs/screenshots/tui-shared-runtime/tui-options-zh-after.png?layout-review=2) |
+| tui-overworld-en | 0 | ![前](https://raw.githubusercontent.com/liuyanghejerry/open-pokered/refactor/tui-shared-runtime/docs/screenshots/tui-shared-runtime/tui-overworld-en-before.png?layout-review=2) | ![后](https://raw.githubusercontent.com/liuyanghejerry/open-pokered/refactor/tui-shared-runtime/docs/screenshots/tui-shared-runtime/tui-overworld-en-after.png?layout-review=2) |
+| tui-overworld-zh | 0 | ![前](https://raw.githubusercontent.com/liuyanghejerry/open-pokered/refactor/tui-shared-runtime/docs/screenshots/tui-shared-runtime/tui-overworld-zh-before.png?layout-review=2) | ![后](https://raw.githubusercontent.com/liuyanghejerry/open-pokered/refactor/tui-shared-runtime/docs/screenshots/tui-shared-runtime/tui-overworld-zh-after.png?layout-review=2) |
+| tui-party-en | 0 | ![前](https://raw.githubusercontent.com/liuyanghejerry/open-pokered/refactor/tui-shared-runtime/docs/screenshots/tui-shared-runtime/tui-party-en-before.png?layout-review=2) | ![后](https://raw.githubusercontent.com/liuyanghejerry/open-pokered/refactor/tui-shared-runtime/docs/screenshots/tui-shared-runtime/tui-party-en-after.png?layout-review=2) |
+| tui-party-zh | 0 | ![前](https://raw.githubusercontent.com/liuyanghejerry/open-pokered/refactor/tui-shared-runtime/docs/screenshots/tui-shared-runtime/tui-party-zh-before.png?layout-review=2) | ![后](https://raw.githubusercontent.com/liuyanghejerry/open-pokered/refactor/tui-shared-runtime/docs/screenshots/tui-shared-runtime/tui-party-zh-after.png?layout-review=2) |
+| tui-pc-oak-rating-50 | 0 | ![前](https://raw.githubusercontent.com/liuyanghejerry/open-pokered/refactor/tui-shared-runtime/docs/screenshots/tui-shared-runtime/tui-pc-oak-rating-50-before.png?layout-review=2) | ![后](https://raw.githubusercontent.com/liuyanghejerry/open-pokered/refactor/tui-shared-runtime/docs/screenshots/tui-shared-runtime/tui-pc-oak-rating-50-after.png?layout-review=2) |
+| tui-save-en | 0 | ![前](https://raw.githubusercontent.com/liuyanghejerry/open-pokered/refactor/tui-shared-runtime/docs/screenshots/tui-shared-runtime/tui-save-en-before.png?layout-review=2) | ![后](https://raw.githubusercontent.com/liuyanghejerry/open-pokered/refactor/tui-shared-runtime/docs/screenshots/tui-shared-runtime/tui-save-en-after.png?layout-review=2) |
+| tui-save-zh | 0 | ![前](https://raw.githubusercontent.com/liuyanghejerry/open-pokered/refactor/tui-shared-runtime/docs/screenshots/tui-shared-runtime/tui-save-zh-before.png?layout-review=2) | ![后](https://raw.githubusercontent.com/liuyanghejerry/open-pokered/refactor/tui-shared-runtime/docs/screenshots/tui-shared-runtime/tui-save-zh-after.png?layout-review=2) |
+| tui-splash-en | 0 | ![前](https://raw.githubusercontent.com/liuyanghejerry/open-pokered/refactor/tui-shared-runtime/docs/screenshots/tui-shared-runtime/tui-splash-en-before.png?layout-review=2) | ![后](https://raw.githubusercontent.com/liuyanghejerry/open-pokered/refactor/tui-shared-runtime/docs/screenshots/tui-shared-runtime/tui-splash-en-after.png?layout-review=2) |
+| tui-splash-zh | 0 | ![前](https://raw.githubusercontent.com/liuyanghejerry/open-pokered/refactor/tui-shared-runtime/docs/screenshots/tui-shared-runtime/tui-splash-zh-before.png?layout-review=2) | ![后](https://raw.githubusercontent.com/liuyanghejerry/open-pokered/refactor/tui-shared-runtime/docs/screenshots/tui-shared-runtime/tui-splash-zh-after.png?layout-review=2) |
+| tui-start-menu-en | 0 | ![前](https://raw.githubusercontent.com/liuyanghejerry/open-pokered/refactor/tui-shared-runtime/docs/screenshots/tui-shared-runtime/tui-start-menu-en-before.png?layout-review=2) | ![后](https://raw.githubusercontent.com/liuyanghejerry/open-pokered/refactor/tui-shared-runtime/docs/screenshots/tui-shared-runtime/tui-start-menu-en-after.png?layout-review=2) |
+| tui-start-menu-zh | 0 | ![前](https://raw.githubusercontent.com/liuyanghejerry/open-pokered/refactor/tui-shared-runtime/docs/screenshots/tui-shared-runtime/tui-start-menu-zh-before.png?layout-review=2) | ![后](https://raw.githubusercontent.com/liuyanghejerry/open-pokered/refactor/tui-shared-runtime/docs/screenshots/tui-shared-runtime/tui-start-menu-zh-after.png?layout-review=2) |
+| tui-starter-dex-overlay | 1952 | ![前](https://raw.githubusercontent.com/liuyanghejerry/open-pokered/refactor/tui-shared-runtime/docs/screenshots/tui-shared-runtime/tui-starter-dex-overlay-before.png?layout-review=2) | ![后](https://raw.githubusercontent.com/liuyanghejerry/open-pokered/refactor/tui-shared-runtime/docs/screenshots/tui-shared-runtime/tui-starter-dex-overlay-after.png?layout-review=2) |
+| tui-title-en | 0 | ![前](https://raw.githubusercontent.com/liuyanghejerry/open-pokered/refactor/tui-shared-runtime/docs/screenshots/tui-shared-runtime/tui-title-en-before.png?layout-review=2) | ![后](https://raw.githubusercontent.com/liuyanghejerry/open-pokered/refactor/tui-shared-runtime/docs/screenshots/tui-shared-runtime/tui-title-en-after.png?layout-review=2) |
+| tui-title-zh | 0 | ![前](https://raw.githubusercontent.com/liuyanghejerry/open-pokered/refactor/tui-shared-runtime/docs/screenshots/tui-shared-runtime/tui-title-zh-before.png?layout-review=2) | ![后](https://raw.githubusercontent.com/liuyanghejerry/open-pokered/refactor/tui-shared-runtime/docs/screenshots/tui-shared-runtime/tui-title-zh-after.png?layout-review=2) |
+| tui-town-map-en | 192 | ![前](https://raw.githubusercontent.com/liuyanghejerry/open-pokered/refactor/tui-shared-runtime/docs/screenshots/tui-shared-runtime/tui-town-map-en-before.png?layout-review=2) | ![后](https://raw.githubusercontent.com/liuyanghejerry/open-pokered/refactor/tui-shared-runtime/docs/screenshots/tui-shared-runtime/tui-town-map-en-after.png?layout-review=2) |
+| tui-town-map-zh | 374 | ![前](https://raw.githubusercontent.com/liuyanghejerry/open-pokered/refactor/tui-shared-runtime/docs/screenshots/tui-shared-runtime/tui-town-map-zh-before.png?layout-review=2) | ![后](https://raw.githubusercontent.com/liuyanghejerry/open-pokered/refactor/tui-shared-runtime/docs/screenshots/tui-shared-runtime/tui-town-map-zh-after.png?layout-review=2) |
+| tui-trainer-card-en | 187 | ![前](https://raw.githubusercontent.com/liuyanghejerry/open-pokered/refactor/tui-shared-runtime/docs/screenshots/tui-shared-runtime/tui-trainer-card-en-before.png?layout-review=2) | ![后](https://raw.githubusercontent.com/liuyanghejerry/open-pokered/refactor/tui-shared-runtime/docs/screenshots/tui-shared-runtime/tui-trainer-card-en-after.png?layout-review=2) |
+| tui-trainer-card-zh | 164 | ![前](https://raw.githubusercontent.com/liuyanghejerry/open-pokered/refactor/tui-shared-runtime/docs/screenshots/tui-shared-runtime/tui-trainer-card-zh-before.png?layout-review=2) | ![后](https://raw.githubusercontent.com/liuyanghejerry/open-pokered/refactor/tui-shared-runtime/docs/screenshots/tui-shared-runtime/tui-trainer-card-zh-after.png?layout-review=2) |
